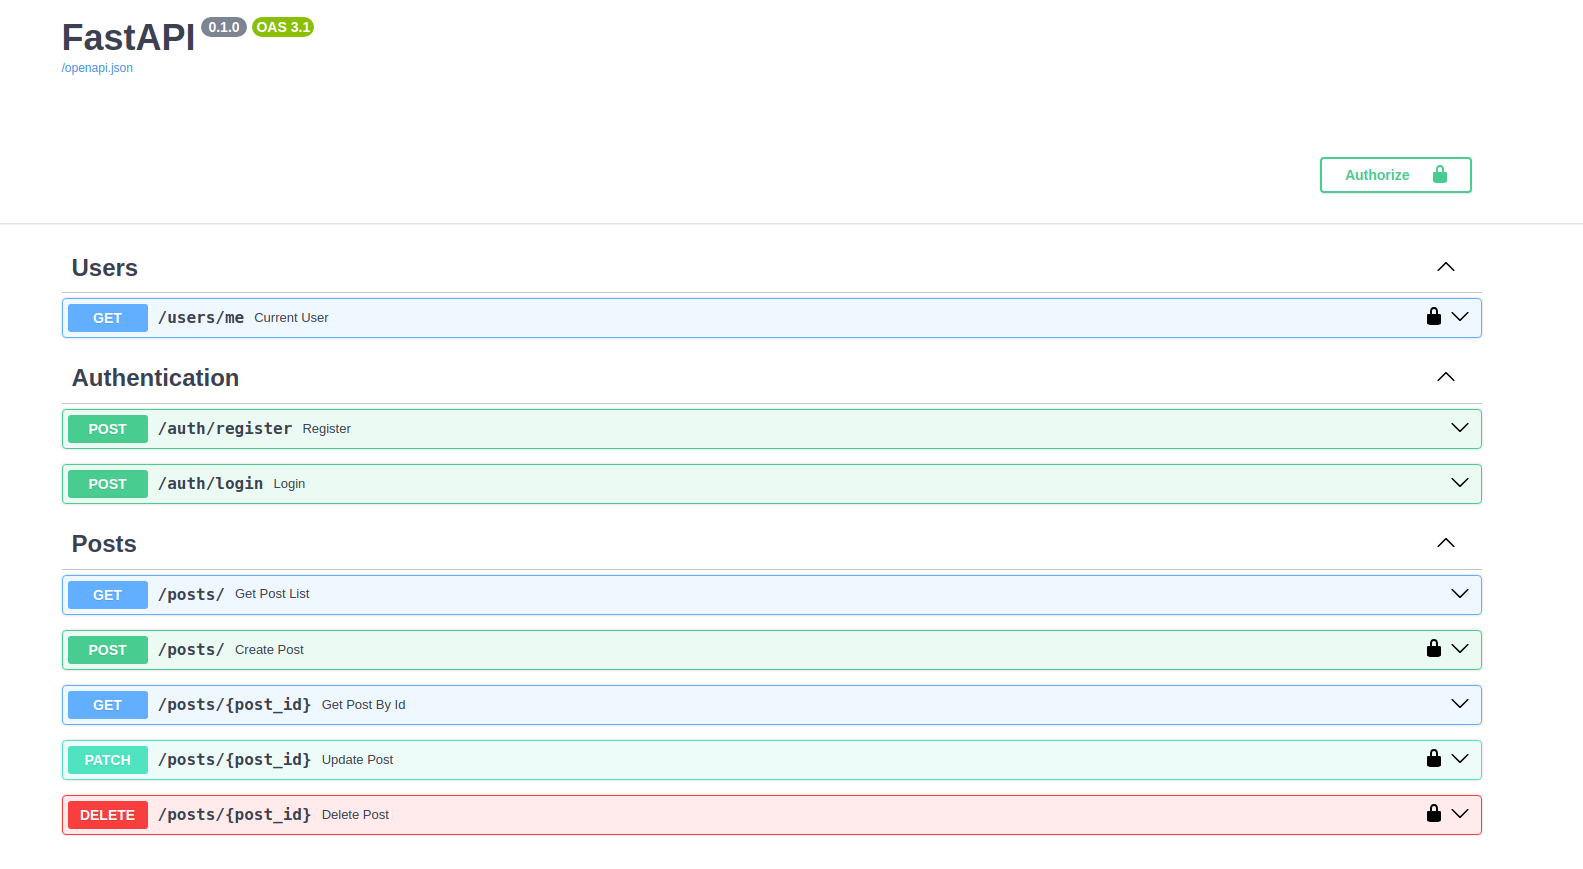
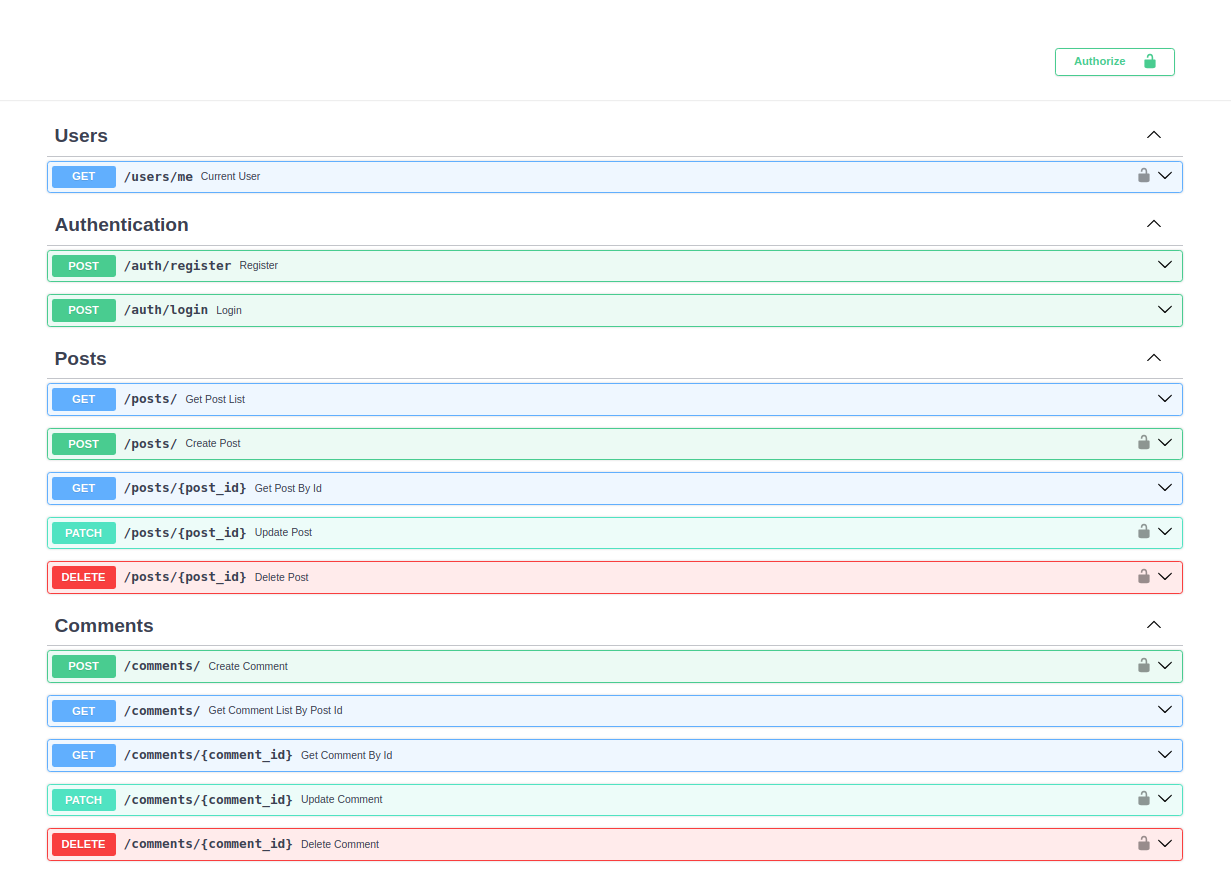
patch method for comments resource

diff --git a/clean_architecture_example/external/web_api/routers/comment.py b/clean_architecture_example/external/web_api/routers/comment.py
@@ -5,14 +5,17 @@ from contracts.comments.comment_details_response import CommentDetailsResponse
 from contracts.comments.comment_list_response import CommentListResponse
 from contracts.comments.create_comment_request import CreateCommentRequest
 from contracts.comments.get_comments_request import GetCommentsByPostIdRequest
+from contracts.comments.update_comment import UpdateCommentRequest
 from core.application.usecases.comments.create_comment import CreateComment
 from core.application.usecases.comments.delete_comment import DeleteComment
 from core.application.usecases.comments.get_comment import (
     GetCommentById,
     GetCommentListByPostId,
 )
+from core.application.usecases.comments.update_comment import UpdateComment
 from dishka.integrations.fastapi import DishkaRoute, FromDishka
 from external.web_api.dependencies.authentication import authentication_required
+from external.web_api.schemas.comment import UpdateCommentSchema
 from fastapi import APIRouter, Depends
 
 comment_router = APIRouter(
@@ -49,6 +52,24 @@ async def get_comment_by_id(
     get_comment_interactor: FromDishka[GetCommentById],
 ) -> CommentDetailsResponse:
     return await get_comment_interactor(comment_id)
+
+
+@comment_router.patch(
+    "/{comment_id}",
+    dependencies=[Depends(authentication_required)],
+    response_model=CommentDetailsResponse,
+)
+async def update_comment(
+    comment_id: UUID,
+    update_comment_request: UpdateCommentSchema,
+    update_comment_interactor: FromDishka[UpdateComment],
+) -> CommentDetailsResponse:
+    return await update_comment_interactor(
+        UpdateCommentRequest(
+            comment_id,
+            update_comment_request.content,
+        ),
+    )
 
 
 @comment_router.delete(

diff --git a/clean_architecture_example/core/application/usecases/posts/get_post.py b/clean_architecture_example/core/application/usecases/posts/get_post.py
@@ -1,9 +1,6 @@
 from uuid import UUID
 
-from contracts.posts.get_posts_request import (
-    GetPostListByOwnerIdRequest,
-    GetPostListRequest,
-)
+from contracts.posts.get_posts_request import GetPostListRequest
 from contracts.posts.post_details_response import PostDetailsResponse
 from contracts.posts.post_list_response import PostListResponse
 from core.application.common.interactor import Interactor
@@ -38,33 +35,6 @@ class GetPostList(Interactor[GetPostListRequest, PostListResponse]):
 
     async def __call__(self, request: GetPostListRequest) -> PostListResponse:
         posts = await self.post_repository.find_all(request.limit, request.offset)
-
-        if not posts:
-            return PostListResponse([], 0)
-
-        data = [
-            PostDetailsResponse(
-                id=post.id.value,
-                title=post.title.value,
-                content=post.content.value,
-                owner_id=post.owner_id.value,
-                created_at=post.created_at,
-                updated_at=post.updated_at,
-            )
-            for post in posts
-        ]
-
-        return PostListResponse(data, len(data))
-
-
-class GetPostListByOwnerId(Interactor[GetPostListByOwnerIdRequest, PostListResponse]):
-    def __init__(self, post_repository: PostRepository) -> None:
-        self.post_repository = post_repository
-
-    async def __call__(self, request: GetPostListByOwnerIdRequest) -> PostListResponse:
-        posts = await self.post_repository.find_by_owner_id(
-            request.owner_id, request.limit, request.offset
-        )
 
         if not posts:
             return PostListResponse([], 0)

diff --git a/clean_architecture_example/external/infrastructure/ioc.py b/clean_architecture_example/external/infrastructure/ioc.py
@@ -15,11 +15,7 @@ from core.application.usecases.comments.get_comment import (
 )
 from core.application.usecases.posts.create_post import CreatePost
 from core.application.usecases.posts.delete_post import DeletePost
-from core.application.usecases.posts.get_post import (
-    GetPostById,
-    GetPostList,
-    GetPostListByOwnerId,
-)
+from core.application.usecases.posts.get_post import GetPostById, GetPostList
 from core.application.usecases.posts.update_post import UpdatePost
 from core.application.usecases.users.get_current_user import GetCurrentUser
 from core.domain.comments.repository import CommentRepository
@@ -137,7 +133,6 @@ class UseCasesProvider(Provider):
     create_post = provide(CreatePost)
     get_post_by_id = provide(GetPostById)
     get_post_list = provide(GetPostList)
-    get_post_list_by_owner_id = provide(GetPostListByOwnerId)
     update_post = provide(UpdatePost)
     delete_post = provide(DeletePost)
     create_comment = provide(CreateComment)

diff --git a/clean_architecture_example/contracts/posts/get_posts_request.py b/clean_architecture_example/contracts/posts/get_posts_request.py
@@ -1,16 +1,7 @@
 from dataclasses import dataclass, field
-from uuid import UUID
 
 
 @dataclass(frozen=True)
 class GetPostListRequest:
-    limit: int = field(default=20)
-    offset: int = field(default=0)
-
-
-@dataclass(frozen=True)
-class GetPostListByOwnerIdRequest:
-    owner_id: UUID
-
     limit: int = field(default=20)
     offset: int = field(default=0)

diff --git a/clean_architecture_example/external/web_api/schemas/comment.py b/clean_architecture_example/external/web_api/schemas/comment.py
@@ -1,0 +1,6 @@
+from dataclasses import dataclass
+
+
+@dataclass(frozen=True)
+class UpdateCommentSchema:
+    content: str
